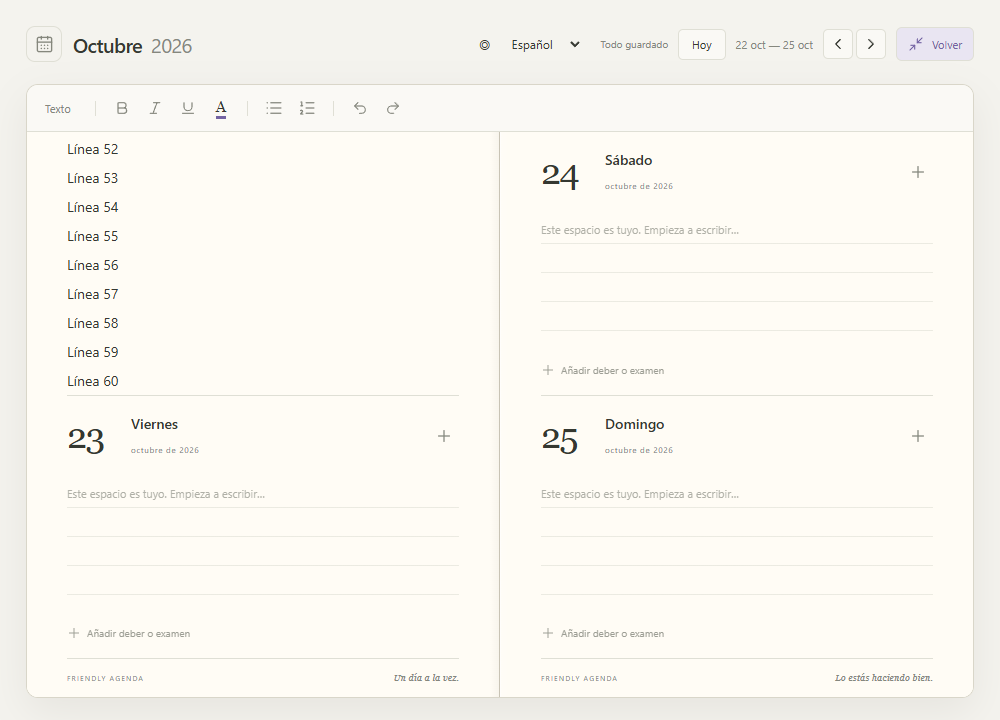
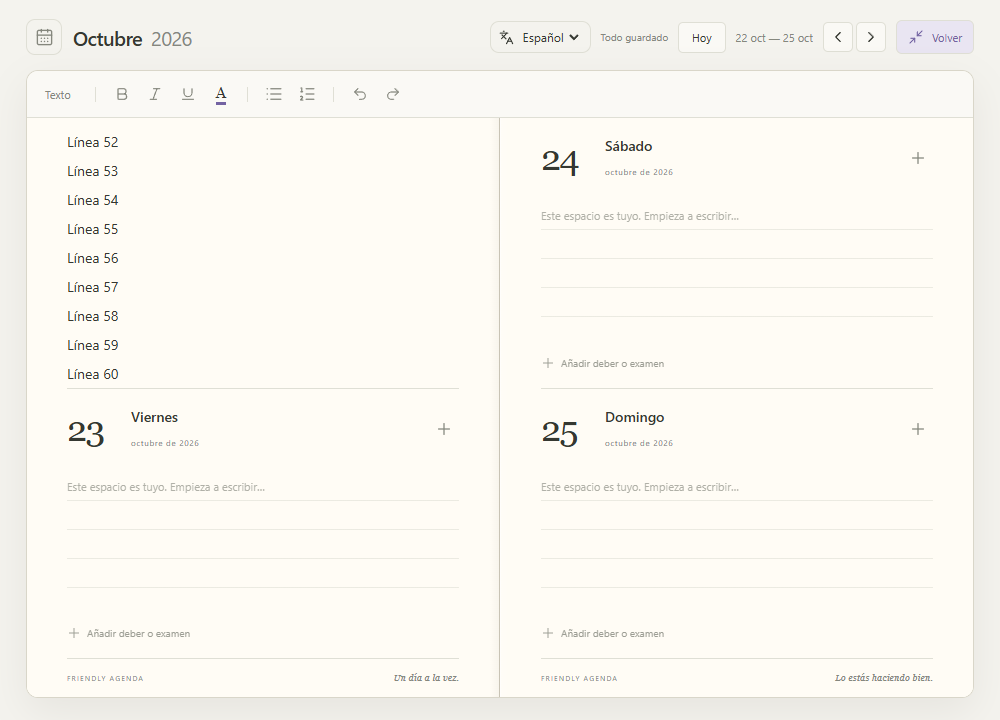
Keep language controls compact and make long-note checks portable

diff --git a/tests/ui/day-overflow.spec.js b/tests/ui/day-overflow.spec.js
@@ -28,10 +28,21 @@ for (const width of [1000, 1440, 1700]) {
     ).toBe("none");
     await expect(page.getByRole("status").first()).toHaveText("Todo guardado");
     await editor.focus();
-    await page.keyboard.press(
-      process.platform === "darwin" ? "Meta+ArrowDown" : "Control+End",
-      { delay: 50 },
-    );
+    // Put the caret at the end using the standard editing API. Native End shortcuts
+    // differ across the macOS and Windows browser runners.
+    await editor.evaluate(async (element) => {
+      const changed = new Promise((resolve) =>
+        document.addEventListener(
+          "selectionchange",
+          () => requestAnimationFrame(resolve),
+          { once: true },
+        ),
+      );
+      const selection = window.getSelection();
+      selection.selectAllChildren(element);
+      selection.collapseToEnd();
+      await changed;
+    });
     await page.keyboard.press("Enter");
     await page.keyboard.type("Última línea accesible");
     await expect

diff --git a/src/style.css b/src/style.css
@@ -1563,7 +1563,8 @@ input[type="color"] {
   color: var(--text);
   border: 1px solid var(--line);
   border-radius: 9px;
-  padding: 6px 8px;
+  padding: 0 8px;
+  min-height: 32px;
   flex-shrink: 0;
 }
 .language-picker select {
@@ -1574,6 +1575,8 @@ input[type="color"] {
   font-size: 12px;
   cursor: pointer;
   max-width: 95px;
+  padding: 6px 0;
+  width: auto;
 }
 .language-picker select option {
   color: #28252e;
